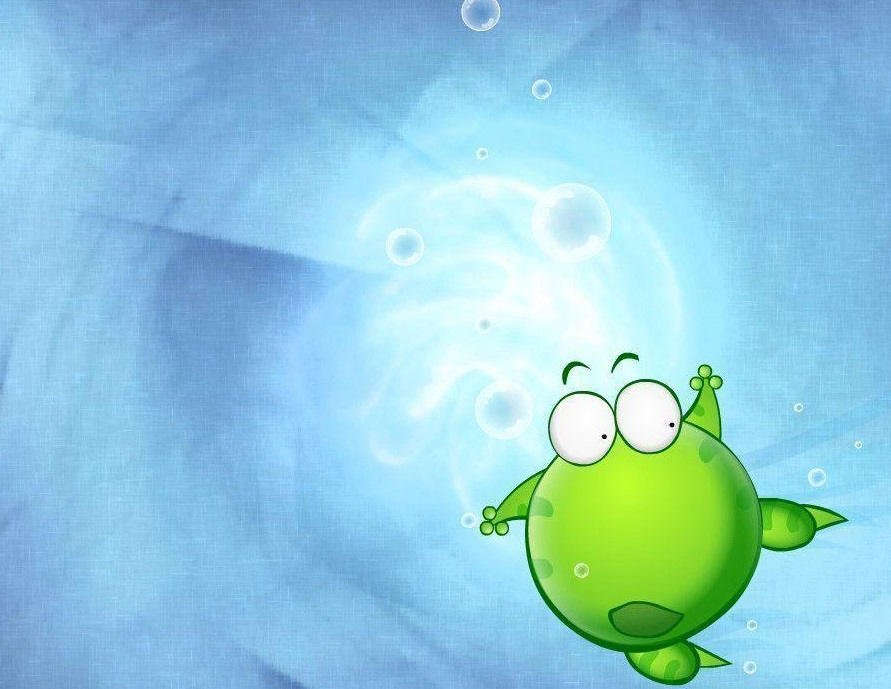
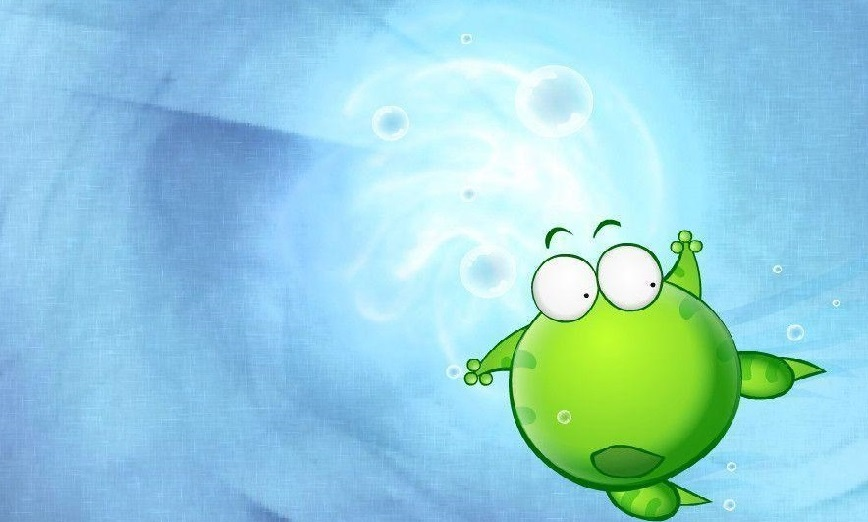
feat: add login page

diff --git a/src/pages/login-page/login-page.tsx b/src/pages/login-page/login-page.tsx
@@ -1,11 +1,54 @@
 import Footer from "../../components/footer/footer";
 import Header from "../../components/header/header";
+import "./login-page.scss";
+import { useForm } from 'react-hook-form';
+import {ERROR_MESSAGE, MAIL_REG_EXP} from "../../constans";
+
+type FormData = {
+  userName: string;
+  email: string;
+  password: string;
+  adminPassword: string;
+}
 
 function LoginPage () {
+  const { register, handleSubmit, formState: { errors } } = useForm<FormData>();
+  const onSubmit = handleSubmit(data => console.log(data));
+
   return (
     <div className="page page-login">
       <Header/>
-      <p>Login Page</p>
+      <section className="login">
+        <div className="login-form">
+          <h1 className="login-title">Sign in</h1>
+          <form className="form" onSubmit={onSubmit}>
+            <div className="form-block">
+              <label className="form-label">User name</label>
+              <input className="form-input" placeholder="Enter your username"
+                     {...register("userName",  { required: true })} />
+              {errors.userName && <span className="error">{ ERROR_MESSAGE.USERNAME }</span>}
+            </div>
+            <div className="form-block ">
+              <label className="form-label">E-mail</label>
+              <input className="form-input" placeholder="Enter your email"
+                     {...register("email",  { required: true, pattern: MAIL_REG_EXP })} />
+              {errors.email && <span className="error">{ ERROR_MESSAGE.EMAIL }</span>}
+            </div>
+            <div className="form-block ">
+              <label className="form-label">Password</label>
+              <input className="form-input" placeholder="Should contains min 6 symbols"
+                     {...register("password",  { required: true, minLength: 6 })} />
+              {errors.password && <span className="error">{ ERROR_MESSAGE.PASSWORD }</span>}
+            </div>
+            <div className="form-block ">
+              <label className="form-label">Admin password <span>(If you have, enter it)</span></label>
+              <input className="form-input" placeholder="Enter your administrator password"
+                     {...register("adminPassword")} />
+            </div>
+            <button className="form-submit button" type="submit">Sign in</button>
+          </form>
+        </div>
+      </section>
       <Footer/>
     </div>
   )

diff --git a/src/pages/login-page/login-page.scss b/src/pages/login-page/login-page.scss
@@ -1,0 +1,105 @@
+@import "./src/scss/all";
+
+.login {
+  position: relative;
+  height: 100%;
+  width: 100%;
+  box-sizing: border-box;
+  padding: 0 50px 0 170px;
+  margin: 0 auto;
+  background-image: linear-gradient(to right, #fff 651px, transparent 740px), url("../../../public/images/frog-bg-4.jpg");
+  background-position: top left,right top;
+  background-size: auto,auto 100%;
+  background-repeat: no-repeat,no-repeat;
+}
+
+.login-form {
+  position: relative;
+  height: calc(100vh - 154px);
+  width: 520px;
+  box-sizing: border-box;
+  padding: 20px 0;
+
+  &:after {
+    content: "";
+    position: absolute;
+    height: 100%;
+    width: 150px;
+    bottom: 0;
+    right: -12%;
+    background-color: $white;
+    border-right: 6px solid $green-light;
+    transform: skew(-6.5deg);
+  }
+}
+
+.form {
+  width: 345px;
+  z-index: 1;
+  padding: 20px;
+  border: 2px solid $green;
+  border-radius: 6px;
+}
+
+.login-title {
+  margin: 0 0 16px 0;
+  font-size: 40px;
+  line-height: 38px;
+  color: $green;
+}
+
+.form-label {
+  margin-bottom: 12px;
+  font-size: 22px;
+  line-height: 20px;
+  color: $green;
+
+  span {
+    font-size: 16px;
+    color: $gray;
+  }
+}
+
+.form-block {
+  display: flex;
+  flex-direction: column;
+  margin-bottom: 15px;
+}
+
+.form-input {
+  width: 100%;
+  box-sizing: border-box;
+  padding: 10px;
+  font-size: 16px;
+  border-radius: 8px;
+  border: 1px solid $green;
+}
+
+.form-submit {
+  width: 100%;
+  padding: 10px;
+  background-color: $green;
+  color: $white;
+  font-size: 18px;
+  text-decoration: none;
+  text-transform: uppercase;
+  border-radius: 8px;
+  cursor: pointer;
+
+  &:hover,
+  &:focus {
+    color: $green;
+    background-color: $green-light;
+  }
+}
+
+.login-bg-block {
+  height: 100%;
+  width: 50%;
+}
+
+.error {
+  padding-top: 5px;
+  color: $red;
+  font-size: 15px;
+}

diff --git a/src/constans.ts b/src/constans.ts
@@ -19,3 +19,12 @@ export const DEVELOPERS = [
     linkPath: 'https://github.com/Levosilimo'
   }
 ];
+
+
+export const MAIL_REG_EXP = /[a-z0-9!#$%&'*+/=?^_`{|}~-]+(?:\.[a-z0-9!#$%&'*+/=?^_`{|}~-]+)*@(?:[a-z0-9](?:[a-z0-9-]*[a-z0-9])?\.)+[a-z0-9](?:[a-z0-9-]*[a-z0-9])?/;
+
+export const ERROR_MESSAGE = {
+  USERNAME: 'This field is required',
+  EMAIL: 'Invalid e-mail',
+  PASSWORD: 'Should contain min 6 symbols',
+};

diff --git a/src/components/header/header.tsx b/src/components/header/header.tsx
@@ -8,6 +8,7 @@ function Header(): JSX.Element {
         <h2 className='header-title'>Froggy css game</h2>
         <ul className='header-menu'>
           <li><Link to={AppRoute.Main}>Main page</Link></li>
+          <li><Link to={AppRoute.Login}>Login</Link></li>
           <li><Link to={AppRoute.Game}>Game</Link></li>
           <li><Link to={AppRoute.Settings}>Settings</Link></li>
         </ul>

diff --git a/src/scss/variables.scss b/src/scss/variables.scss
@@ -5,6 +5,8 @@ $green-light: #97dc99;
 $green: #0e3c10;
 $green-bg: #82a183;
 $aqua: #30c5ff;
+$gray: #807b7b;
+$red: #c73636;
 
 // Fonts
 $main-font-family: 'Rubik', sans-serif;

diff --git a/src/pages/main-page/main-page.scss b/src/pages/main-page/main-page.scss
@@ -49,7 +49,7 @@
   }
 
   a:hover {
-    color: #30c5ff;
-    background-color: #82a183;
+    color: $green;
+    background-color: $green-light;
   }
 }
